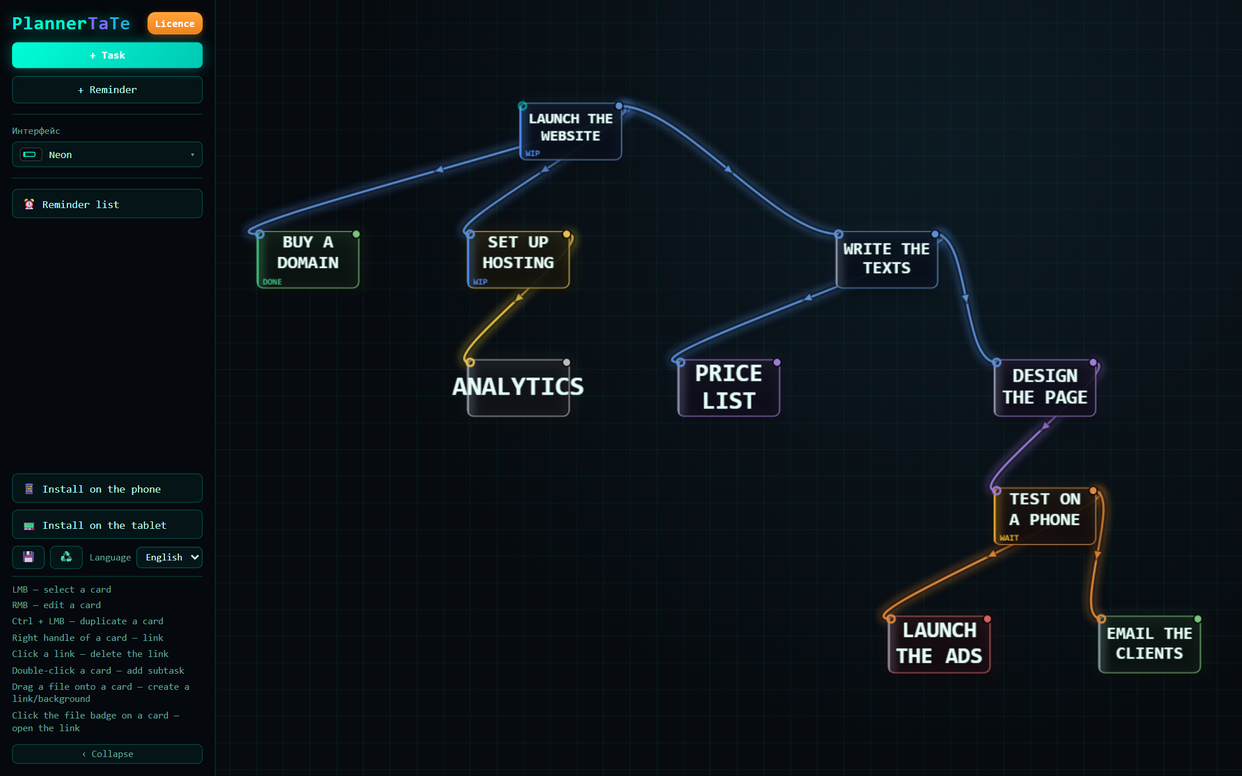
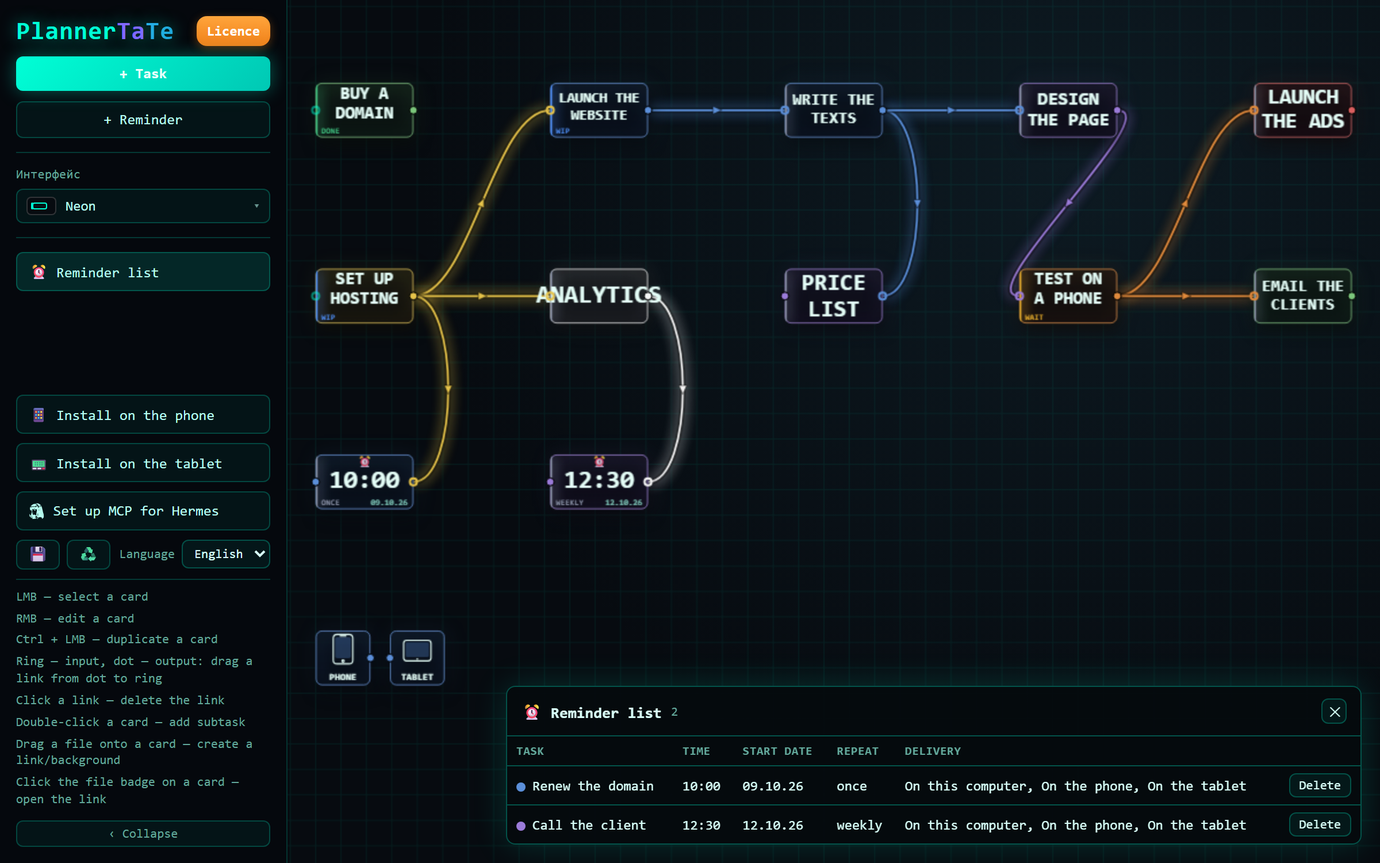
PlannerTaTe 1.3
- Порты карточек: вход-кольцо и выход-точка всегда на противоположных сторонах,
  при перетаскивании меняются местами; линия из левого порта сначала идёт влево.
- Подписи «вход»/«выход» у портов убраны.
- Тема по умолчанию — «Неон».
- Витринные скриншоты обновлены; в README ссылки на Setup_1.3.

diff --git a/frontend/src/App.vue b/frontend/src/App.vue
@@ -140,20 +140,14 @@ function updateField() {
 let viewScale = 1           // текущий зум холста (обновляет хук onDrawBackground)
 const ARROW_LEN = 9        // длина треугольника-указателя направления связи (координаты графа)
 
-// Порты карточки — вариант 1 набора (вернул Ярослав 30.09.26): вход — КОЛЬЦО, выход — ТОЧКА,
-// врезаны в верхние углы (центр на дуге скругления, как полоса статуса). Одна формула на всё:
-// отрисовку, концы связей (getConnectionPos) и попадание мышью.
+// Порты карточки — просьба Ярослава 06.10.26: вход — КОЛЬЦО, выход — ТОЧКА; оба стоят НА СЕРЕДИНЕ
+// СТОРОН и всегда на ПРОТИВОПОЛОЖНЫХ сторонах. «Флип» — это когда вход и выход МЕНЯЮТСЯ МЕСТАМИ:
+// подзадача уехала левее родителя — у родителя выход уезжает налево, вход направо; у подзадачи
+// вход направо, выход налево (расчёт сторон — portSides). Одна формула на всё: отрисовку, концы
+// связей (getConnectionPos) и попадание мышью.
 const PORT = {
   r: 4.2,                 // радиус порта (координаты графа)
   ring: 2.2,              // толщина кольца на входе
-  out: 0,                 // сдвиг центра наружу от дуги скругления
-  minCorner: 3,
-}
-function portOffset() {
-  // точка на дуге скругления под 45°: R − R/√2 ≈ 0.293·R (для скругления < 10px не ниже 3px)
-  const R = theme().node.radius || 10
-  const onArc = Math.max(PORT.minCorner, R * 0.293)
-  return Math.max(0.4, Math.round((onArc - PORT.out) * 10) / 10)
 }
 // Кнопка «открыть описание целиком» — лупа с плюсом внутри (просьба Ярослава 05.10.26).
 // Рисуем линиями, цветом текста карточки: у эмодзи на Windows свои цвета, а карточка должна
@@ -180,9 +174,44 @@ function drawZoomBtn(ctx, cx, cy, size, color) {
   ctx.restore()
 }
 
-function portLocalPos(node, isInput) {
-  const d = portOffset()
-  return isInput ? [d, d] : [node.size[0] - d, d]
+// Локальная точка порта: СЕРЕДИНА стороны (side: 'left' | 'right').
+function portLocalPos(node, side) {
+  const w = node.size[0], h = node.size[1]
+  return side === 'left' ? [0, h / 2] : [w, h / 2]
+}
+// Стороны портов карточки: у неё ОДИН вход (кольцо) и ОДИН выход (точка), и они всегда на
+// противоположных сторонах. Стороны считаем по связям: вход «смотрит» на свои источники (если
+// все источники слева — кольцо слева; если подзадача левее родителя — у родителя кольцо уезжает
+// направо), выход — на свои цели. Пустой порт встаёт напротив занятого; если и вход, и выход
+// указывают в одну сторону — вход уступает выходу и уезжает на противоположную (так на карточке
+// всегда видны ОБА порта, без наложений). Возвращает { in, out, hasIn, hasOut }.
+function portSides(node) {
+  const g = node.graph
+  let inL = 0, inR = 0, outL = 0, outR = 0
+  if (g) {
+    const ins = node.inputs || []
+    for (const s of ins) {
+      const l = (s && s.link != null) ? g.links[s.link] : null
+      const o = l ? g.getNodeById(l.origin_id) : null
+      if (o) { if (o.pos[0] < node.pos[0]) inL++; else inR++ }
+    }
+    const outs = node.outputs || []
+    for (const s of outs) {
+      for (const lid of ((s && s.links) || [])) {
+        const l = g.links[lid]
+        const t = l ? g.getNodeById(l.target_id) : null
+        if (t) { if (t.pos[0] < node.pos[0]) outL++; else outR++ }
+      }
+    }
+  }
+  const hasIn = (inL + inR) > 0, hasOut = (outL + outR) > 0
+  let inSide = hasIn ? (inL > inR ? 'left' : inR > inL ? 'right' : 'left') : null
+  let outSide = hasOut ? (outL > outR ? 'left' : outR > outL ? 'right' : 'right') : null
+  if (!inSide && !outSide) { inSide = 'left'; outSide = 'right' }
+  else if (!inSide) inSide = (outSide === 'left') ? 'right' : 'left'
+  else if (!outSide) outSide = (inSide === 'left') ? 'right' : 'left'
+  if (inSide === outSide) inSide = (outSide === 'left') ? 'right' : 'left'   // вход уступает выходу
+  return { in: inSide, out: outSide, hasIn, hasOut }
 }
 // Будильник для монохромной темы: чашечка-циферблат, две «ножки», кнопка и стрелки — всё линиями
 // цветом текста карточки (эмодзи ⏰ в Windows всегда цветной, поэтому знак рисуем сами).
@@ -204,19 +233,17 @@ function drawBellMono(ctx, cx, top, size, color) {
   ctx.restore()
 }
 
-// Цвет порта: вход — цвет входящей связи, выход — акцент самой карточки.
+// Цвет порта: вход — цвет входящей связи ЭТОГО слота, выход — акцент самой карточки.
 // Свободный порт (нет связей) отдаём теме — см. portIdle в themes.js.
-function portColor(node, isInput) {
+function portColor(node, isInput, slot) {
   const g = node.graph
   if (!g) return null
   if (!isInput) return linkColorOf(node.color)
-  const links = g.links || {}
-  for (const id in links) {
-    const l = links[id]
-    if (l && l.target_id == node.id) {
-      const src = g.getNodeById(l.origin_id)
-      if (src) return linkColorOf(src.color)
-    }
+  const il = node.inputs && node.inputs[slot]
+  const l = (il && il.link != null) ? g.links[il.link] : null
+  if (l) {
+    const src = g.getNodeById(l.origin_id)
+    if (src) return linkColorOf(src.color)
   }
   return null
 }
@@ -377,7 +404,10 @@ class RectNode extends LGraphNode {
   hideSlotDots() {
     for (const list of [this.inputs, this.outputs]) {
       if (!list) continue
-      for (const s of list) { s.color_on = 'rgba(0,0,0,0)'; s.color_off = 'rgba(0,0,0,0)' }
+      for (const s of list) {
+        s.color_on = 'rgba(0,0,0,0)'; s.color_off = 'rgba(0,0,0,0)'
+        s.label = ''   // иначе LiteGraph пишет у слота его имя — «вход»/«выход» (замечание Ярослава)
+      }
     }
   }
   // LiteGraph.addInput() внутри делает setSize(this.computeSize()) — это пересчитывает размер
@@ -388,6 +418,15 @@ class RectNode extends LGraphNode {
     this.size = [100, 56]
     this.hideSlotDots()   // новый слот тоже не должен рисовать заводскую зелёную точку
     return input
+  }
+  // Симметрично: LiteGraph.addOutput() тоже внутри пересчитывает размер (setSize(computeSize())),
+  // ломая утверждённый размер карточки 100×56 и плитки 56×56. Возвращаем размер как был.
+  addOutput(name, type, extra_info) {
+    const keep = [this.size[0], this.size[1]]
+    const output = super.addOutput(name, type, extra_info)
+    this.size = keep
+    this.hideSlotDots()
+    return output
   }
   // Несколько карточек на один вход: при подключении к уже занятому слоту создаём новый пустой.
   onBeforeConnectInput(target_slot) {
@@ -413,7 +452,7 @@ class RectNode extends LGraphNode {
     return target_slot
   }
   // Одна связь между двумя задачами: отменяем попытку повторно привязать тот же узел к тому же целевому.
-  // Работает как для драг-дроп, так и для программного connect(). Разные узлы на один приёмник (fan-in) не блокируются — у них другой origin_id.
+  // Работает как для драг-дропа, так и для программного connect(). Разные узлы на один приёмник (fan-in) не блокируются — у них другой origin_id.
   onConnectOutput(slot, inputType, input, target_node) {
     if (!this.graph || !target_node) return true
     for (const id in this.graph.links) {
@@ -424,6 +463,10 @@ class RectNode extends LGraphNode {
     }
     return true
   }
+  // Раскладывать исходящие связи по слотам больше не нужно: сторона порта общая на карточку
+  // (см. portSides), все выходные слоты рисуются в ОДНУ точку-выход.
+  // Дубль «этот же источник → этот же приёмник» отбивает onConnectOutput выше, остальное —
+  // заводское поведение LiteGraph.
   // Вся внешность карточки берётся из активной темы (палитра — src/themes.js),
   // цвет-акцент — это выбор пользователя (node.color), он же рамка и полоса.
   onDrawBackground(ctx) {
@@ -502,7 +545,7 @@ class RectNode extends LGraphNode {
   // --- Панель устройства («Смартфон»/«Планшет»), 06.10.26 ----------------------------------
   // Квадратная плитка 56×56: тело как у карточки (палитра активной темы), внутри — глиф
   // устройства и подпись. Глиф рисуем ЛИНИЯМИ, как значки вложений и будильник: эмодзи
-  // в Windows всегда цветные и не слушаются тем. Порт-точка — сверху по центру, её рисует
+  // в Windows всегда цветные и не слушаются тем. Порт-точка — на середине обращённой стороны,
   // onDrawForeground. Плитку нельзя удалить (deleteSelected/duplicateNode не трогают),
   // задачи с устройства встают к ней детьми, файл с плитки уезжает на устройство.
   // Параметр темы зовём tm: имя t внутри занято функцией перевода (иначе на каждом кадре
@@ -569,47 +612,81 @@ class RectNode extends LGraphNode {
     ctx.fillText(label, cx, h - 6)
     ctx.restore()
   }
-  // Порт панели устройства: ОДНА точка сверху по центру (кольца нет — решение Ярослава 06.10.26).
-  drawDeviceDot(ctx, w, t) {
+  // Порт панели устройства: точка на СЕРЕДИНЕ ОБРАЩЁННОЙ СТОРОНЫ (кольца нет — решение Ярослава
+  // 06.10.26; место перенесено с верхнего центра 06.10.26 по его же просьбе: у «Смартфона» точка
+  // справа по центру, у «Планшета» — слева, а если задача уехала на другую сторону — плитка
+  // переворачивается, как обычная карточка). Задач с двух сторон — две точки.
+  drawDeviceDot(ctx, t) {
     const color = linkColorOf(this.color)
-    ctx.save()
-    ctx.shadowBlur = 0
-    ctx.shadowColor = 'transparent'
-    if (t.portGlow) { ctx.shadowColor = color; ctx.shadowBlur = t.portGlow }
-    ctx.beginPath()
-    ctx.arc(w / 2, 0, PORT.r, 0, Math.PI * 2)
-    ctx.fillStyle = color
-    ctx.fill()
-    if (t.portOutline) {   // тонкий контур, чтобы точка читалась на светлой плитке
+    for (const pt of this.portPoints(false)) {
+      ctx.save()
       ctx.shadowBlur = 0
-      ctx.lineWidth = 1
-      ctx.strokeStyle = t.portOutline
-      ctx.stroke()
+      ctx.shadowColor = 'transparent'
+      if (t.portGlow) { ctx.shadowColor = color; ctx.shadowBlur = t.portGlow }
+      ctx.beginPath()
+      ctx.arc(pt.lx, pt.ly, PORT.r, 0, Math.PI * 2)
+      ctx.fillStyle = color
+      ctx.fill()
+      if (t.portOutline) {   // тонкий контур, чтобы точка читалась на светлой плитке
+        ctx.shadowBlur = 0
+        ctx.lineWidth = 1
+        ctx.strokeStyle = t.portOutline
+        ctx.stroke()
+      }
+      ctx.restore()
     }
-    ctx.restore()
   }
-  // Порты карточки лежат в верхних углах, и все входы сходятся в ОДНУ точку (левый
-  // верхний угол): LiteGraph держит по слоту на связь и рисовал бы «лестницу» точек.
-  // Здесь же задаём и концы связей — LiteGraph берёт их из этого же метода.
-  // У панели устройства выход — одна точка СВЕРХУ ПО ЦЕНТРУ (06.10.26).
-  getConnectionPos(is_input, _slot_number, out) {
+  // Концы связей и точки портов. Сторона порта — общая на карточку (portSides): вход всегда на
+  // одной стороне, выход — на противоположной; все входящие сходятся в КОЛЬЦО, все исходящие
+  // выходят из ТОЧКИ. «Флип» (вход и выход поменялись местами) пересчитывается на лету из
+  // расположения карточек. Плитка устройства: точка-выход на обращённой стороне (без связей
+  // базово: «Смартфон» — справа, «Планшет» — слева, просьба Ярослава 06.10.26).
+  // Пока тянется новая связь, вход без единой входящей показываем на стороне драга — бросить
+  // связь можно с любой стороны; после создания она встанет по общему правилу.
+  getConnectionPos(is_input, slot_number, out) {
     const dst = out || [0, 0]
-    if (!is_input && (this.kind || 'task') === 'device') {
-      dst[0] = this.pos[0] + this.size[0] / 2
-      dst[1] = this.pos[1]
-      return dst
+    const isDevice = (this.kind || 'task') === 'device'
+    const ps = portSides(this)
+    let side = is_input ? ps.in : ps.out
+    if (isDevice) side = ps.hasOut ? ps.out : (this.device === 'tablet' ? 'left' : 'right')
+    if (is_input && !ps.hasIn && liteCanvas && liteCanvas.connecting_output &&
+        liteCanvas.connecting_node && liteCanvas.connecting_node !== this) {
+      const c = liteCanvas.connecting_node
+      side = (c.pos[0] < this.pos[0]) ? 'left' : 'right'   // целимся туда, откуда тянут
     }
-    const [lx, ly] = portLocalPos(this, !!is_input)
+    const [lx, ly] = portLocalPos(this, side)
     dst[0] = this.pos[0] + lx
     dst[1] = this.pos[1] + ly
+    // Направление конца линии — по стороне порта: линия из левого края сначала уходит ВЛЕВО и
+    // лишь потом изгибается к задаче (поправка Ярослава 06.10.26 — сплайн загибался не туда).
+    const slot = is_input ? (this.inputs || [])[slot_number] : (this.outputs || [])[slot_number]
+    if (slot) slot.dir = (side === 'left') ? LiteGraph.LEFT : LiteGraph.RIGHT
     return dst
+  }
+  // Уникальные локальные точки портов (для отрисовки): входы или выходы. Несколько слотов,
+  // сходящихся в одну точку (fan-in), дают одну точку; цвет берём у первого слота со связью.
+  portPoints(isInput) {
+    const list = isInput ? this.inputs : this.outputs
+    const seen = new Map()
+    if (list) {
+      for (let i = 0; i < list.length; i++) {
+        const p = this.getConnectionPos(!!isInput, i)
+        const lx = Math.round(p[0] - this.pos[0]), ly = Math.round(p[1] - this.pos[1])
+        const k = lx + ':' + ly
+        const filled = isInput ? (list[i].link != null) : !!(list[i].links && list[i].links.length)
+        const prev = seen.get(k)
+        if (!prev) seen.set(k, { lx, ly, slot: i, filled })
+        else if (filled && !prev.filled) { prev.slot = i; prev.filled = true }
+      }
+    }
+    return Array.from(seen.values())
   }
   onDrawForeground(ctx) {
     const w = this.size[0], h = this.size[1]
     const t = theme().node
 
-    // Панель устройства: кроме точки-порта сверху по центру ничего не рисуем (кольца нет).
-    if ((this.kind || 'task') === 'device') { this.drawDeviceDot(ctx, w, t); return }
+    // Панель устройства: кроме точки-порта на середине обращённой стороны ничего не рисуем (кольца нет).
+    if ((this.kind || 'task') === 'device') { this.drawDeviceDot(ctx, t); return }
 
     // Разметка карточки сверху вниз: название (по центру), описание, нижняя строка —
     // статус слева и срок справа. Каждая зона отъедает высоту у той, что выше, поэтому
@@ -912,11 +989,12 @@ class RectNode extends LGraphNode {
       ctx.restore()
     }
 
-    // Порты (вариант 1): вход — кольцо, выход — точка; оба в цвете связи, врезаны в угол.
-    // Рисуем последними, чтобы были поверх текста и по ним удобно было тянуть связь.
-    const drawPort = (isInput) => {
-      const color = portColor(this, isInput) || t.portIdle
-      const [px, py] = portLocalPos(this, isInput)
+    // Порты (06.10.26): вход — кольцо, выход — точка, оба НА СЕРЕДИНЕ СТОРОН и всегда на
+    // ПРОТИВОПОЛОЖНЫХ сторонах: при перетаскивании вход и выход «флипаются» — меняются местами
+    // (см. portSides/getConnectionPos; у плиток свои базовые стороны). Рисуем последними, чтобы
+    // были поверх текста и по ним удобно было тянуть связь.
+    const drawPortAt = (isInput, pt) => {
+      const color = portColor(this, isInput, pt.slot) || t.portIdle
       ctx.save()
       // Тени/свечения у портов нет (portGlow = 0 в темах, просьба Ярослава): гасим явно,
       // чтобы порт не подхватил тень от карточки, нарисованной до него.
@@ -929,12 +1007,12 @@ class RectNode extends LGraphNode {
         // (у точки в темах A/B есть ещё тонкий контур 1px, поэтому внешний радиус = r + 0.5).
         // Раньше обводка шла по радиусу r и кольцо выглядело крупнее точки.
         const dotOuter = PORT.r + (t.portOutline ? 0.5 : 0)
-        ctx.arc(px, py, dotOuter - PORT.ring / 2, 0, Math.PI * 2)
+        ctx.arc(pt.lx, pt.ly, dotOuter - PORT.ring / 2, 0, Math.PI * 2)
         ctx.lineWidth = PORT.ring
         ctx.strokeStyle = color
         ctx.stroke()
       } else {
-        ctx.arc(px, py, PORT.r, 0, Math.PI * 2)
+        ctx.arc(pt.lx, pt.ly, PORT.r, 0, Math.PI * 2)
         ctx.fillStyle = color
         ctx.fill()
         if (t.portOutline) {   // тонкий контур, чтобы точка читалась на светлой карточке
@@ -946,8 +1024,8 @@ class RectNode extends LGraphNode {
       }
       ctx.restore()
     }
-    drawPort(true)
-    drawPort(false)
+    for (const pt of this.portPoints(true)) drawPortAt(true, pt)
+    for (const pt of this.portPoints(false)) drawPortAt(false, pt)
 
     ctx.textAlign = 'left'
     ctx.textBaseline = 'alphabetic'
@@ -1023,13 +1101,14 @@ const canvasEl = ref(null)
 // Подсказка у значка ссылки: { x, y, name, path } или null (Ярослав 03.10.26).
 const fileTip = ref(null)
 // Тема: 'a' — стекло, 'b' — неон, 'c' — светлая. Выбор запоминается в localStorage.
-// Если сохранена тема, которой больше нет в списке выбора (спрятана) — стартуем со стандартной.
+// Тема по умолчанию — «Неон» (b; просьба Ярослава 06.10.26). Если сохранена тема, которой
+// больше нет в списке выбора (спрятана) — стартуем с темы по умолчанию.
 const savedTheme = localStorage.getItem('plannertate_theme')
 // Был ли у ЭТОГО браузера свой выбор темы. Нужно, чтобы сообщать телефону тему только со своего
 // компьютера и только когда выбор действительно сделан: иначе чужой браузер в сети (или свежий
 // профиль) при открытии страницы затёр бы тему хозяина своей, по умолчанию (03.10.26).
 const hadSavedTheme = THEME_IDS.includes(savedTheme)
-const themeName = ref(hadSavedTheme ? savedTheme : 'a')
+const themeName = ref(hadSavedTheme ? savedTheme : 'b')
 // 30.09.26: тем стало 12, поэтому в сайдбаре видна только активная, а полный список
 // (все 12 с мини-превью) открывается по клику. Просьба Ярослава: «сделать так, чтобы
 // они все не представлялись, а там можно было выбирать какую тему».
@@ -1377,6 +1456,12 @@ function applyCanvasTheme(lc) {
       if (glow) {
         ctx.shadowBlur = glow
         ctx.shadowColor = (typeof c === 'string' && c[0] === '#') ? rgba(c, th.canvas.linkGlowAlpha) : c
+      }
+      // Призрак новой связи при перетаскивании: LiteGraph зовёт renderLink без направлений —
+      // подставляем сторону выхода карточки, откуда тянут (левый порт тянет линию влево).
+      if (start_dir == null && this.connecting_output && this.connecting_node) {
+        const ps = portSides(this.connecting_node)
+        start_dir = (ps.out === 'left') ? LiteGraph.LEFT : LiteGraph.RIGHT
       }
       const realArc = ctx.arc
       ctx.arc = () => {}   // заводской кружок в середине связи не рисуем

diff --git a/frontend/src/i18n.js b/frontend/src/i18n.js
@@ -77,7 +77,7 @@ export const L18N = {
       'ЛКМ — выбрать карточку',
       'ПКМ — редактировать карточку',
       'Ctrl + ЛКМ — копировать карточку',
-      'Кольцо справа карточки — связь',
+      'Кольцо — вход, кружок — выход: тяните связь от кружка к кольцу',
       'Клик по связи — удалить связь',
       'Двойной клик по карточке — подзадача',
       'Перетаскивание мышкой файлов в карточку — создание ссылки/фона',
@@ -188,7 +188,7 @@ export const L18N = {
       'LMB — select a card',
       'RMB — edit a card',
       'Ctrl + LMB — duplicate a card',
-      'Right handle of a card — link',
+      'Ring — input, dot — output: drag a link from dot to ring',
       'Click a link — delete the link',
       'Double-click a card — add subtask',
       'Drag a file onto a card — create a link/background',
